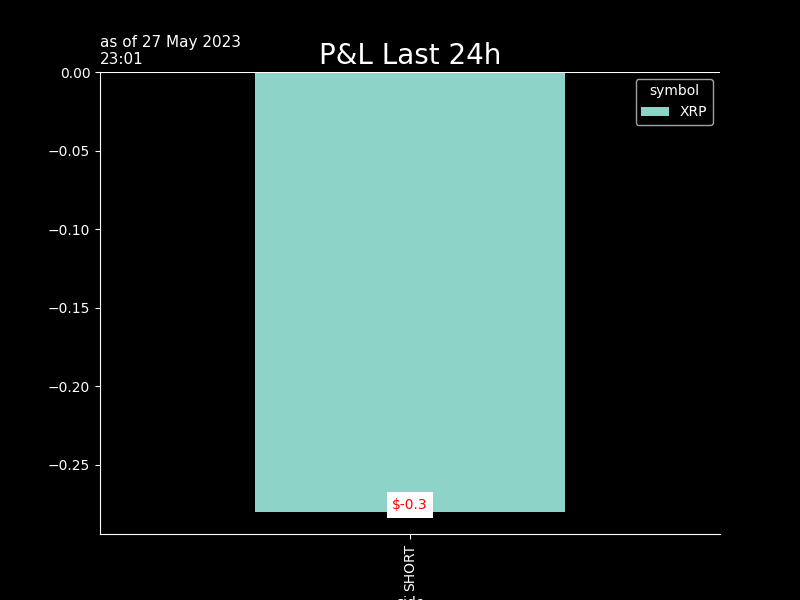
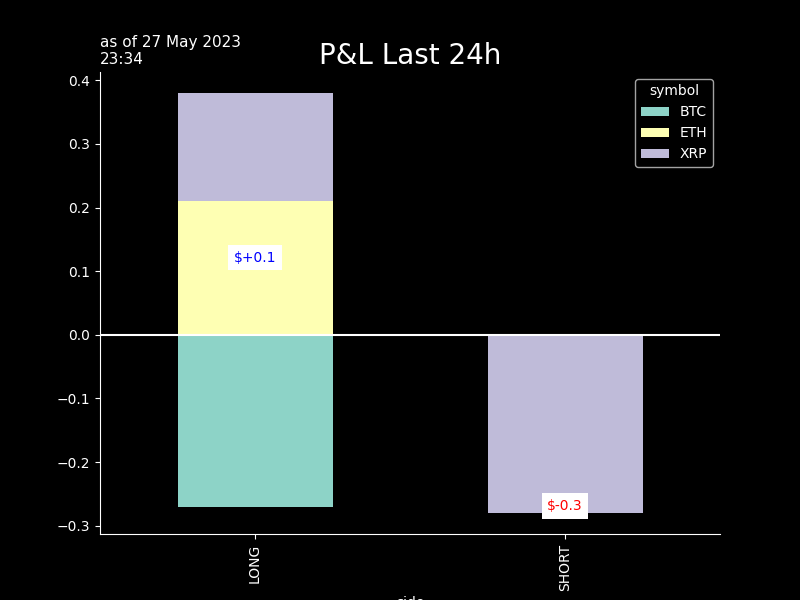
seb_commit

diff --git a/crypto/graphs/bt_trades_book.htmltrade_trades_book.html b/crypto/graphs/bt_trades_book.htmltrade_trades_book.html
@@ -37,55 +37,55 @@
   </thead>
   <tbody>
     <tr>
-      <th>ETHUSDT</th>
-      <td>1825.8200</td>
-      <td>2023-05-27 18:33:23</td>
-      <td>0.086</td>
-      <td>$157.0</td>
-      <td>$0.03</td>
-      <td>2.0</td>
-      <td>0.0</td>
-      <td>1823.49500</td>
-      <td>2023-05-27 19:31</td>
-      <td>-0.2</td>
-      <td>-13.0</td>
-      <td>1826.54</td>
-      <td>0.1</td>
-      <td>4.0</td>
-    </tr>
-    <tr>
       <th>XRPUSDT</th>
-      <td>0.4704</td>
-      <td>2023-05-27 18:33:43</td>
-      <td>335.600</td>
-      <td>$157.9</td>
-      <td>$0.03</td>
+      <td>0.4709</td>
+      <td>2023-05-27 22:33:38</td>
+      <td>-419.200</td>
+      <td>$-197.4</td>
+      <td>$0.04</td>
       <td>2.0</td>
+      <td>0.2</td>
+      <td>0.47085</td>
+      <td>2023-05-27 23:31</td>
       <td>0.0</td>
-      <td>0.46975</td>
-      <td>2023-05-27 19:31</td>
+      <td>1.0</td>
+      <td>.4713</td>
       <td>-0.2</td>
-      <td>-14.0</td>
-      <td>.4705</td>
-      <td>0.0</td>
-      <td>2.0</td>
+      <td>-9.0</td>
     </tr>
     <tr>
       <th>BTCUSDT</th>
-      <td>26814.0000</td>
-      <td>2023-05-27 18:33:41</td>
-      <td>0.006</td>
-      <td>$160.9</td>
+      <td>26768.5000</td>
+      <td>2023-05-27 22:34:22</td>
+      <td>-0.006</td>
+      <td>$-160.6</td>
       <td>$0.03</td>
       <td>2.0</td>
-      <td>0.0</td>
-      <td>26752.45000</td>
-      <td>2023-05-27 19:31</td>
-      <td>-0.4</td>
-      <td>-23.0</td>
-      <td>26816.</td>
+      <td>-0.3</td>
+      <td>26773.65000</td>
+      <td>2023-05-27 23:31</td>
+      <td>-0.0</td>
+      <td>-2.0</td>
+      <td>26780.</td>
+      <td>-0.1</td>
+      <td>-4.0</td>
+    </tr>
+    <tr>
+      <th>ETHUSDT</th>
+      <td>1828.3100</td>
+      <td>2023-05-27 22:33:06</td>
+      <td>-0.086</td>
+      <td>$-157.2</td>
+      <td>$0.03</td>
+      <td>2.0</td>
+      <td>0.2</td>
+      <td>1828.23500</td>
+      <td>2023-05-27 23:31</td>
       <td>0.0</td>
       <td>1.0</td>
+      <td>1828.92</td>
+      <td>-0.1</td>
+      <td>-3.0</td>
     </tr>
   </tbody>
 </table>

diff --git a/crypto/graphs/bt_trades_recap.htmltrade_trades_recap.html b/crypto/graphs/bt_trades_recap.htmltrade_trades_recap.html
@@ -9,32 +9,32 @@
   <tbody>
     <tr>
       <th>as of</th>
-      <td>27May 18:33&gt;&gt;18:33</td>
+      <td>27May 22:33&gt;&gt;22:34</td>
       <td>#trades: 3</td>
     </tr>
     <tr>
       <th>trade net</th>
-      <td>+476.0</td>
-      <td>+151.0%</td>
+      <td>-515.0</td>
+      <td>-163.3%</td>
     </tr>
     <tr>
       <th>trade gross</th>
-      <td>+476.0</td>
-      <td>+151.0%</td>
+      <td>+515.0</td>
+      <td>+163.3%</td>
     </tr>
     <tr>
       <th>BUY</th>
-      <td>+476.0</td>
-      <td>+151.0%</td>
-    </tr>
-    <tr>
-      <th>SELL</th>
       <td>+0.0</td>
       <td>+0.0%</td>
     </tr>
     <tr>
+      <th>SELL</th>
+      <td>-515.0</td>
+      <td>-163.3%</td>
+    </tr>
+    <tr>
       <th>fees</th>
-      <td>$ 0.095</td>
+      <td>$ 0.103</td>
       <td>2.0bp</td>
     </tr>
   </tbody>

diff --git a/crypto/graphs/bt_trades_pnlD_recap.htmltrade_trades_pnlD_recap.html b/crypto/graphs/bt_trades_pnlD_recap.htmltrade_trades_pnlD_recap.html
@@ -1,7 +1,7 @@
 <table border="1" class="dataframe">
   <thead>
     <tr style="text-align: right;">
-      <th>27 May 19:33</th>
+      <th>27 May 23:34</th>
       <th>realizedPnl</th>
       <th>PnLvsArrival</th>
       <th>PnLvsLast</th>
@@ -10,21 +10,21 @@
   <tbody>
     <tr>
       <th>in$</th>
-      <td>0.0</td>
-      <td>-0.8</td>
       <td>0.1</td>
+      <td>0.0</td>
+      <td>-0.3</td>
     </tr>
     <tr>
-      <th>in bp 475 traded</th>
-      <td>0 bp</td>
-      <td>-17 bp</td>
+      <th>in bp 515 traded</th>
       <td>2 bp</td>
+      <td>0 bp</td>
+      <td>-6 bp</td>
     </tr>
     <tr>
       <th>in bp 315 AUMs</th>
-      <td>0 bp</td>
-      <td>-25 bp</td>
       <td>3 bp</td>
+      <td>0 bp</td>
+      <td>-9 bp</td>
     </tr>
   </tbody>
 </table>
